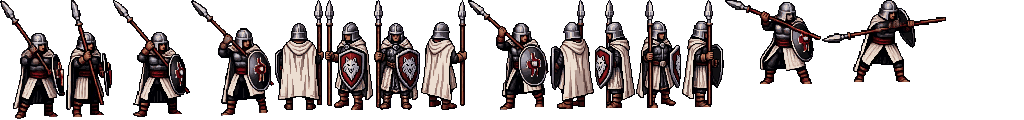
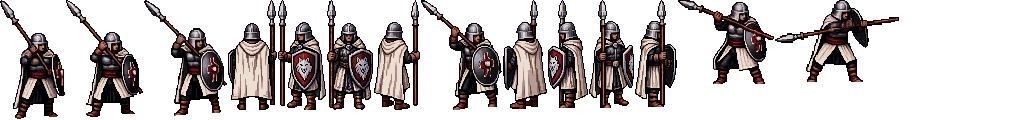
Kämpfer schauen sich beim Aufstellen an; Bauern-Angriff ohne Drehbilder

diff --git a/src/battle/runner.ts b/src/battle/runner.ts
@@ -157,15 +157,18 @@ export class BattleRunner {
   }
 
   /** Laufen mit Laufbildern oder Schaukeln. */
-  private async walk(a: Actor, tx: number, ty: number, speed = 1) {
+  /** faceTo: Blick bleibt auf diese Figur gerichtet (seitwärts oder rückwärts gehen statt umdrehen). */
+  private async walk(a: Actor, tx: number, ty: number, speed = 1, faceTo?: Actor) {
     const sx = a.bx;
     const sy = a.by;
     const d = Math.hypot(tx - sx, ty - sy);
     if (d < 0.02) return;
     const from = boardToScreen(sx, sy, this.stage.flipped);
     const to = boardToScreen(tx, ty, this.stage.flipped);
-    a.dir = dirFromDelta(to.x - from.x, to.y - from.y);
-    const own = this.stage.srcFor(a).frames(a.kind, a.side, 'walk', a.dir).length > 1;
+    // Mit faceTo bleibt die vorher gesetzte Blickrichtung zum Gegner stehen
+    if (!faceTo) a.dir = dirFromDelta(to.x - from.x, to.y - from.y);
+    // Laufbilder nur, wenn Blick und Laufrichtung übereinstimmen (sonst Schaukeln, kein Rückwärts-Laufbild)
+    const own = !faceTo && this.stage.srcFor(a).frames(a.kind, a.side, 'walk', a.dir).length > 1;
     a.play(own ? 'walk' : 'idle', true);
     let lastStep = -1;
     await this.t.run(Math.min(1.6, 0.25 + d * 0.32) / speed, (k) => {
@@ -227,9 +230,11 @@ export class BattleRunner {
           if (Math.abs(pa.x - pv.x) < 6) side = pv.x < 480 ? 1 : -1;
           const gap = a.kind === 'n' || v.kind === 'n' ? 46 : 34;
           const target = screenToBoard(pv.x + side * gap, pv.y, st.flipped);
-          await this.walk(a, target.x, target.y, 1.6);
+          // Beide schauen sich schon beim Aufstellen an
           a.dir = side > 0 ? 'w' : 'e';
           v.dir = side > 0 ? 'e' : 'w';
+          await this.walk(a, target.x, target.y, 1.6, v);
+          a.dir = side > 0 ? 'w' : 'e';
         }
         v.play('idle', true);
         await this.t.wait(0.18);
